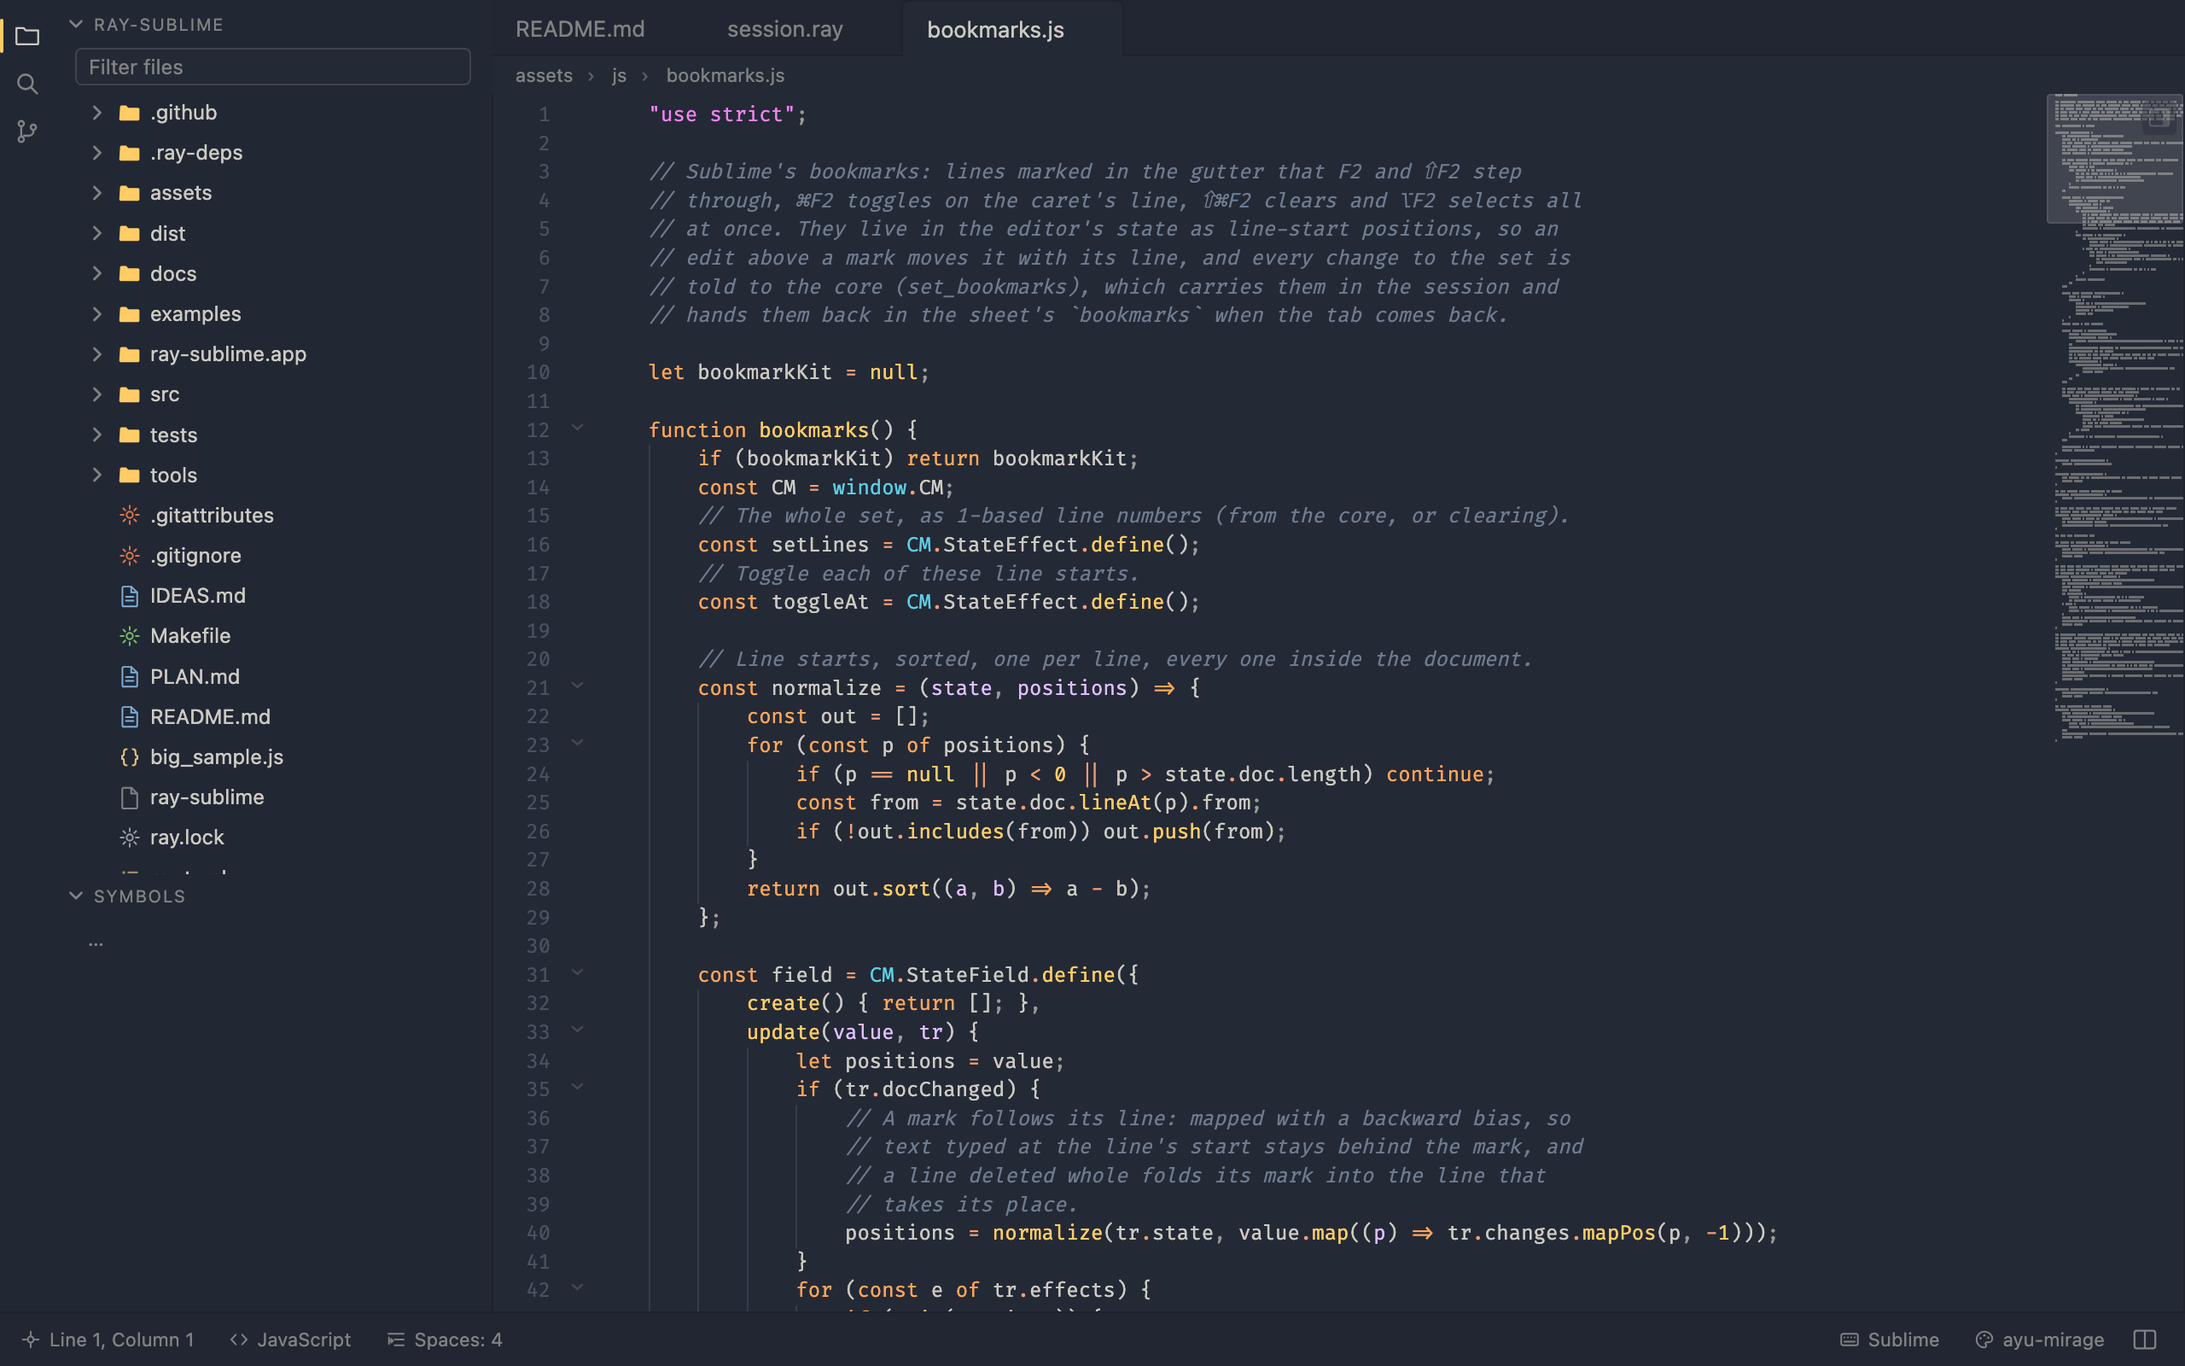
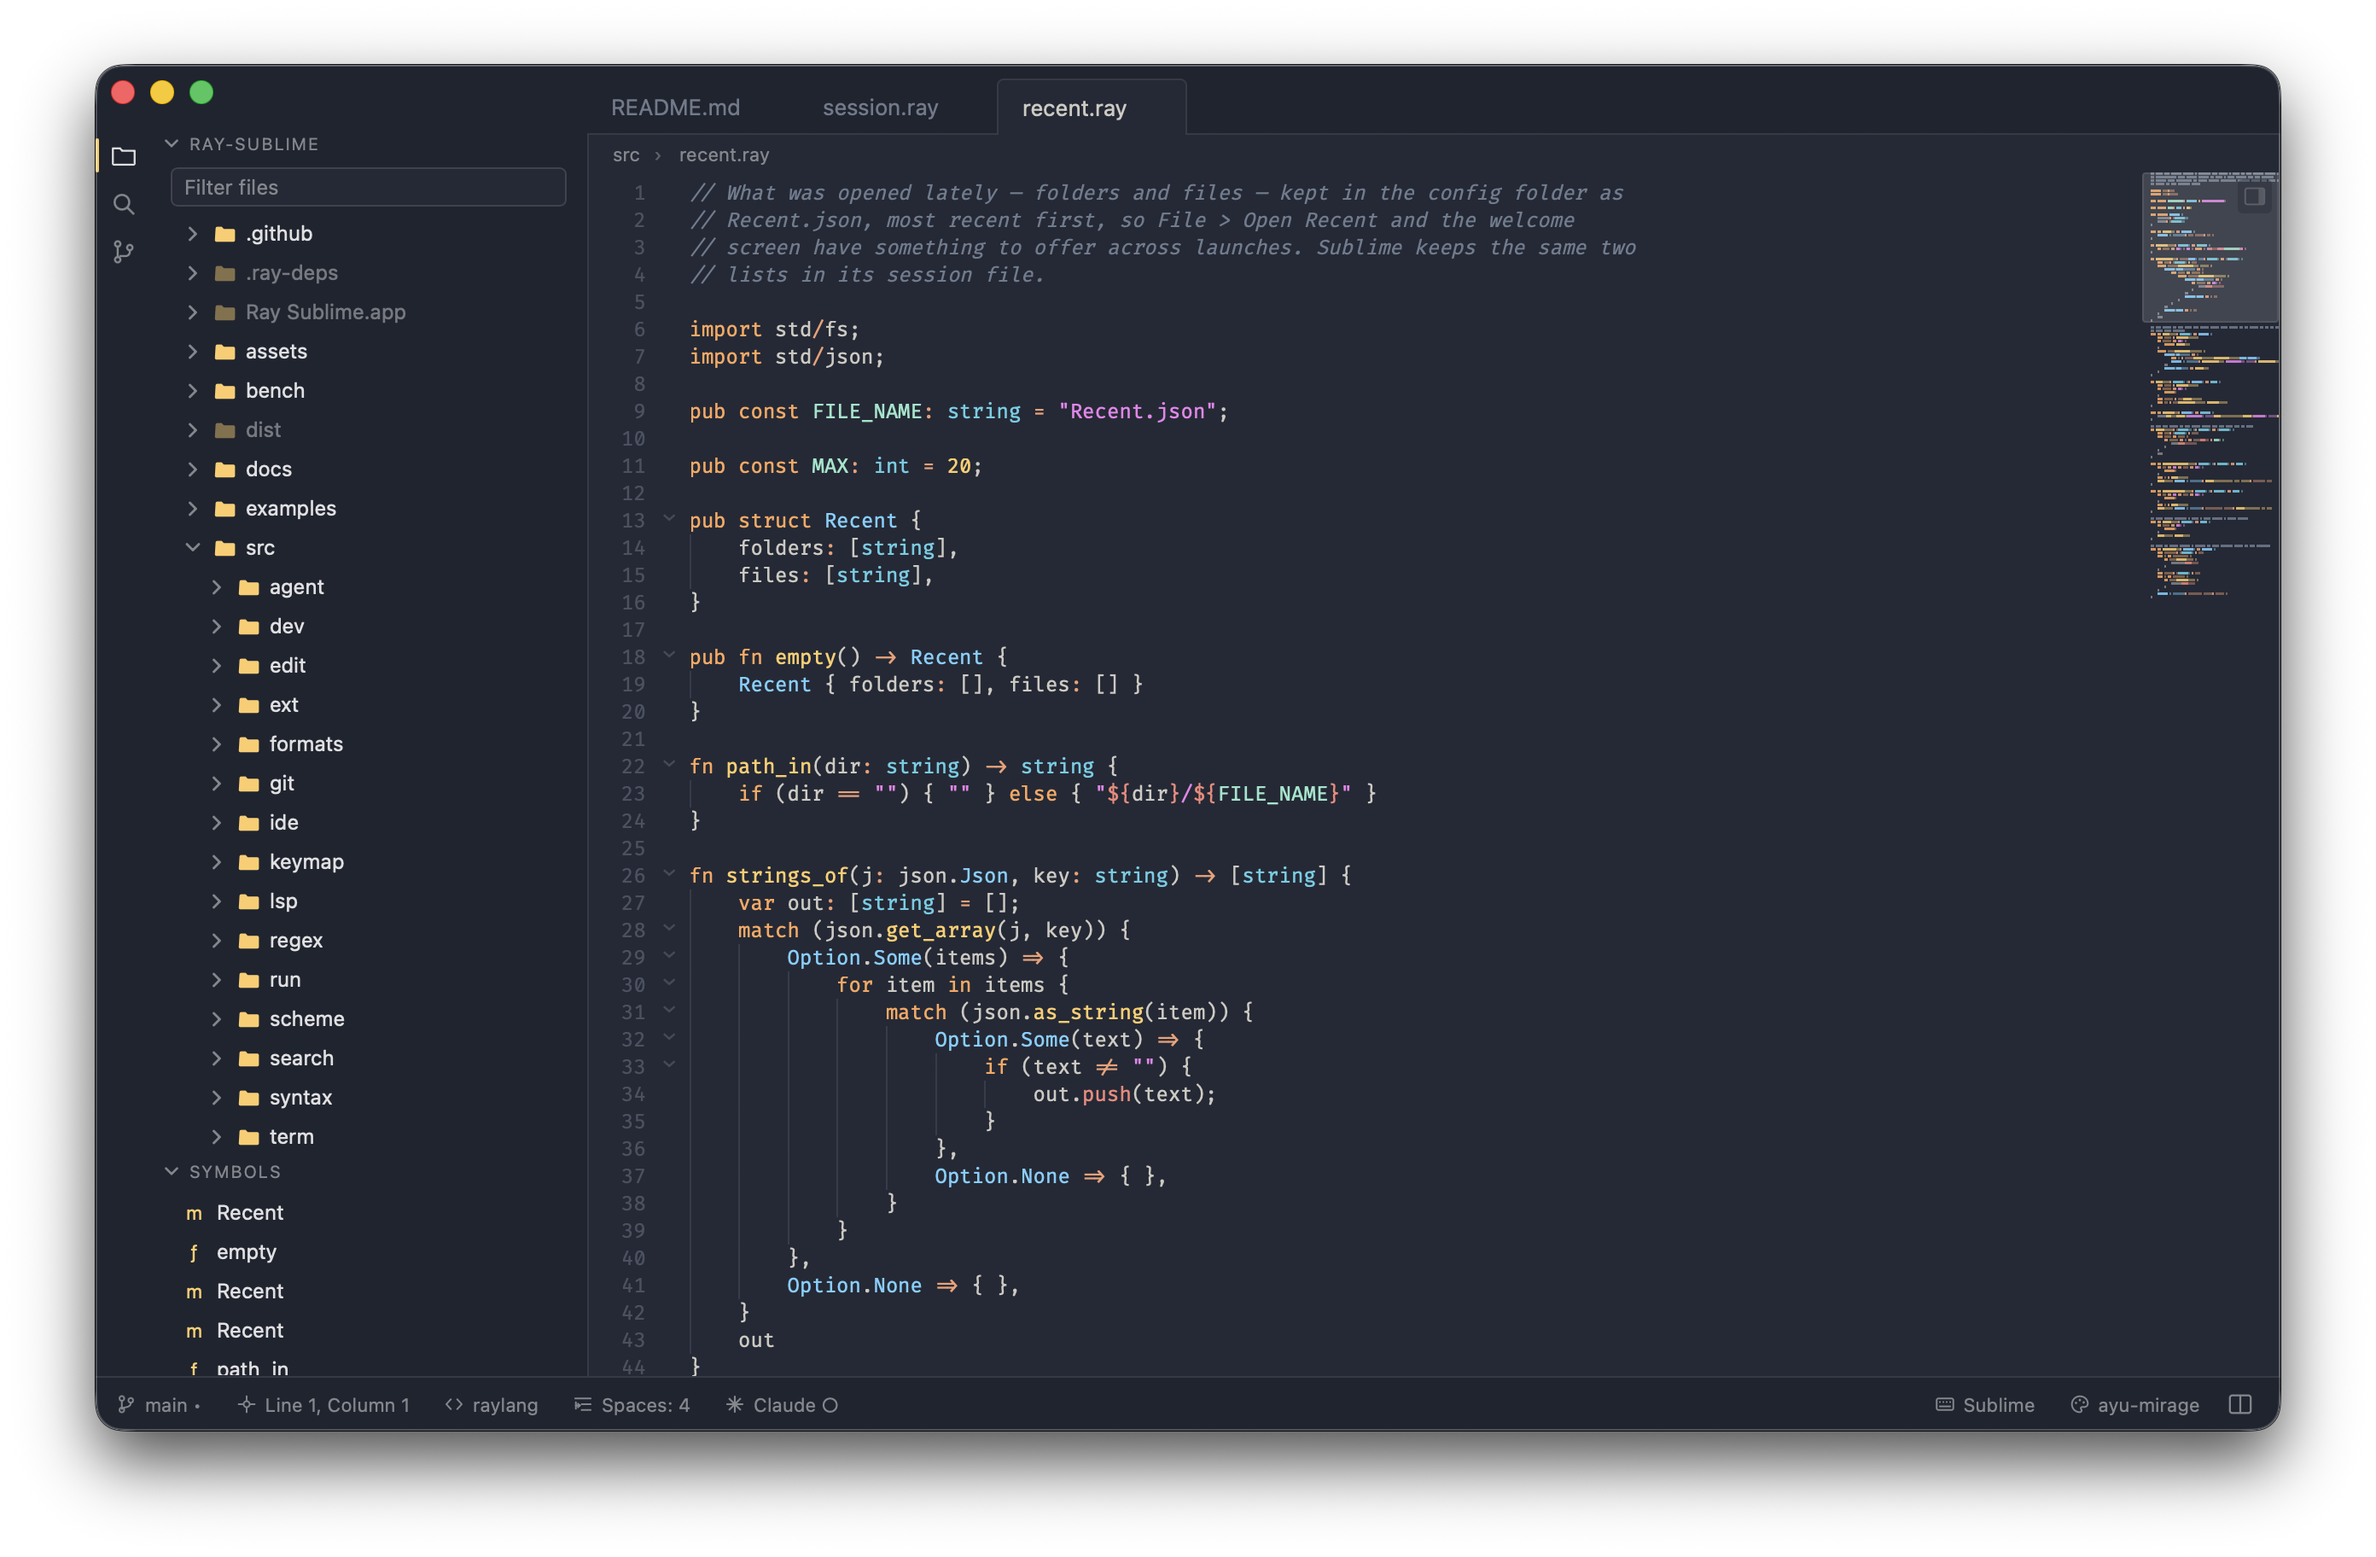
docs: README for 0.1.18, with screenshots of the real macOS window
The screenshots are the app's own window, frame and shadow included, showing
Ray Sublime's raylang source in ayu-mirage, ayu-light, Mariana and Breakers.
The README adds what came since it was written: Claude Code as an IDE, sticky
scroll, the legacy encodings, links and drops in the terminal, and language
servers found with the login shell's PATH.

diff --git a/README.md b/README.md
@@ -9,7 +9,7 @@ installation or from a package you drop in. On top of that it brings what a
 AI agents with MCP tools, dev containers, and an extension model of its own.
 
 <p align="center">
-  <img src="screenshots/editor-dark.png" alt="Ray Sublime with a project open: sidebar, tabs, highlighted raylang source and the minimap" width="900">
+  <img src="screenshots/editor-dark.png" alt="Ray Sublime on macOS with its own source open: the sidebar, tabs, raylang code highlighted in ayu-mirage, and the minimap" width="900">
 </p>
 
 This repository holds the **published builds** and the files the editor
@@ -71,19 +71,29 @@ signature and the zip's checksum are right.
   files, Goto Anything (`⌘P`), Goto Symbol (`⌘R`), Goto Line, Goto Definition
   and References, the command palette (`⇧⌘P`).
 - Snippets, auto-complete, bracket matching, folding, minimap, breadcrumbs,
-  rulers, word wrap, indentation detection, `.editorconfig`, trim-on-save,
-  encodings and line endings, bookmarks, spell checking, Distraction Free
-  mode, a vim keymap.
+  sticky scroll, rulers, word wrap, indentation detection, `.editorconfig`,
+  trim-on-save, encodings (Windows-1252, Shift-JIS, GBK, Big5, KOI8-R and the
+  other legacy ones included) and line endings, bookmarks, spell checking,
+  Distraction Free mode, a vim keymap.
 - Tabs you can pin, splits and layouts, panels docked on all four sides, hot
   exit with untitled buffers restored, sessions and projects, multiple windows.
 
 **And what Sublime does not have.**
 - **Language servers**: a built-in LSP client that finds the servers on your
-  `PATH` (raylang, TypeScript, Python, Rust, Go, C/C++, JSON, CSS, HTML,
+  login shell's `PATH` (raylang, TypeScript, Python, Rust, Go, C/C++, JSON, CSS, HTML,
   YAML, TOML, shell, Lua, Markdown…): completion, hover, diagnostics, rename,
   formatting, code actions, workspace edits.
-- **Integrated terminal** (macOS and Linux), **Git** (status, diff, blame,
-  stage, commit, stash, branches).
+- **Integrated terminal** (macOS and Linux): file paths it prints are links,
+  and a file dropped on it from the sidebar or Finder is typed in.
+  **Git**: status, diff marks in the margin, blame, stage, commit, stash,
+  branches.
+- **Claude Code as an IDE**: a CLAUDE CODE panel runs the `claude` CLI
+  connected to the editor. It sees your selection and open files, gets the
+  language servers' diagnostics, and proposes each change as a diff in the
+  file's own tab, which you accept, reject or revert chunk by chunk. The files
+  it changed are marked in the sidebar and on their tabs. Files and images
+  dropped on the panel are handed to it, and the conversation is resumed when
+  the window comes back.
 - **AI agents**: a chat panel for Anthropic, OpenAI, Gemini, Ollama or any
   OpenAI-compatible endpoint, with keys in the system keychain; it reads the
   project, proposes edits you review as diffs, runs commands under an allow
@@ -95,12 +105,18 @@ signature and the zip's checksum are right.
   editor, permissions and folder trust, installed from the editor's own index.
 - A `ray-sublime` command for the terminal, folder trust, and self-update.
 
+## Light or dark
+
+Any Sublime color scheme and theme, light or dark, including the ones your
+Sublime Text installation carries.
+
 <p align="center">
-  <img src="screenshots/scheme-mariana.png" alt="The same project with Sublime's Mariana color scheme" width="900">
+  <img src="screenshots/editor-light.png" alt="The same file in ayu-light" width="900">
 </p>
 
 <p align="center">
-  <img src="screenshots/scheme-breakers.png" alt="The Breakers color scheme over a Markdown document" width="900">
+  <img src="screenshots/scheme-mariana.png" alt="raylang source with Sublime's Mariana color scheme and the Adaptive theme" width="445">
+  <img src="screenshots/scheme-breakers.png" alt="raylang source with Sublime's Breakers color scheme and the Adaptive theme" width="445">
 </p>
 
 ## Platforms
